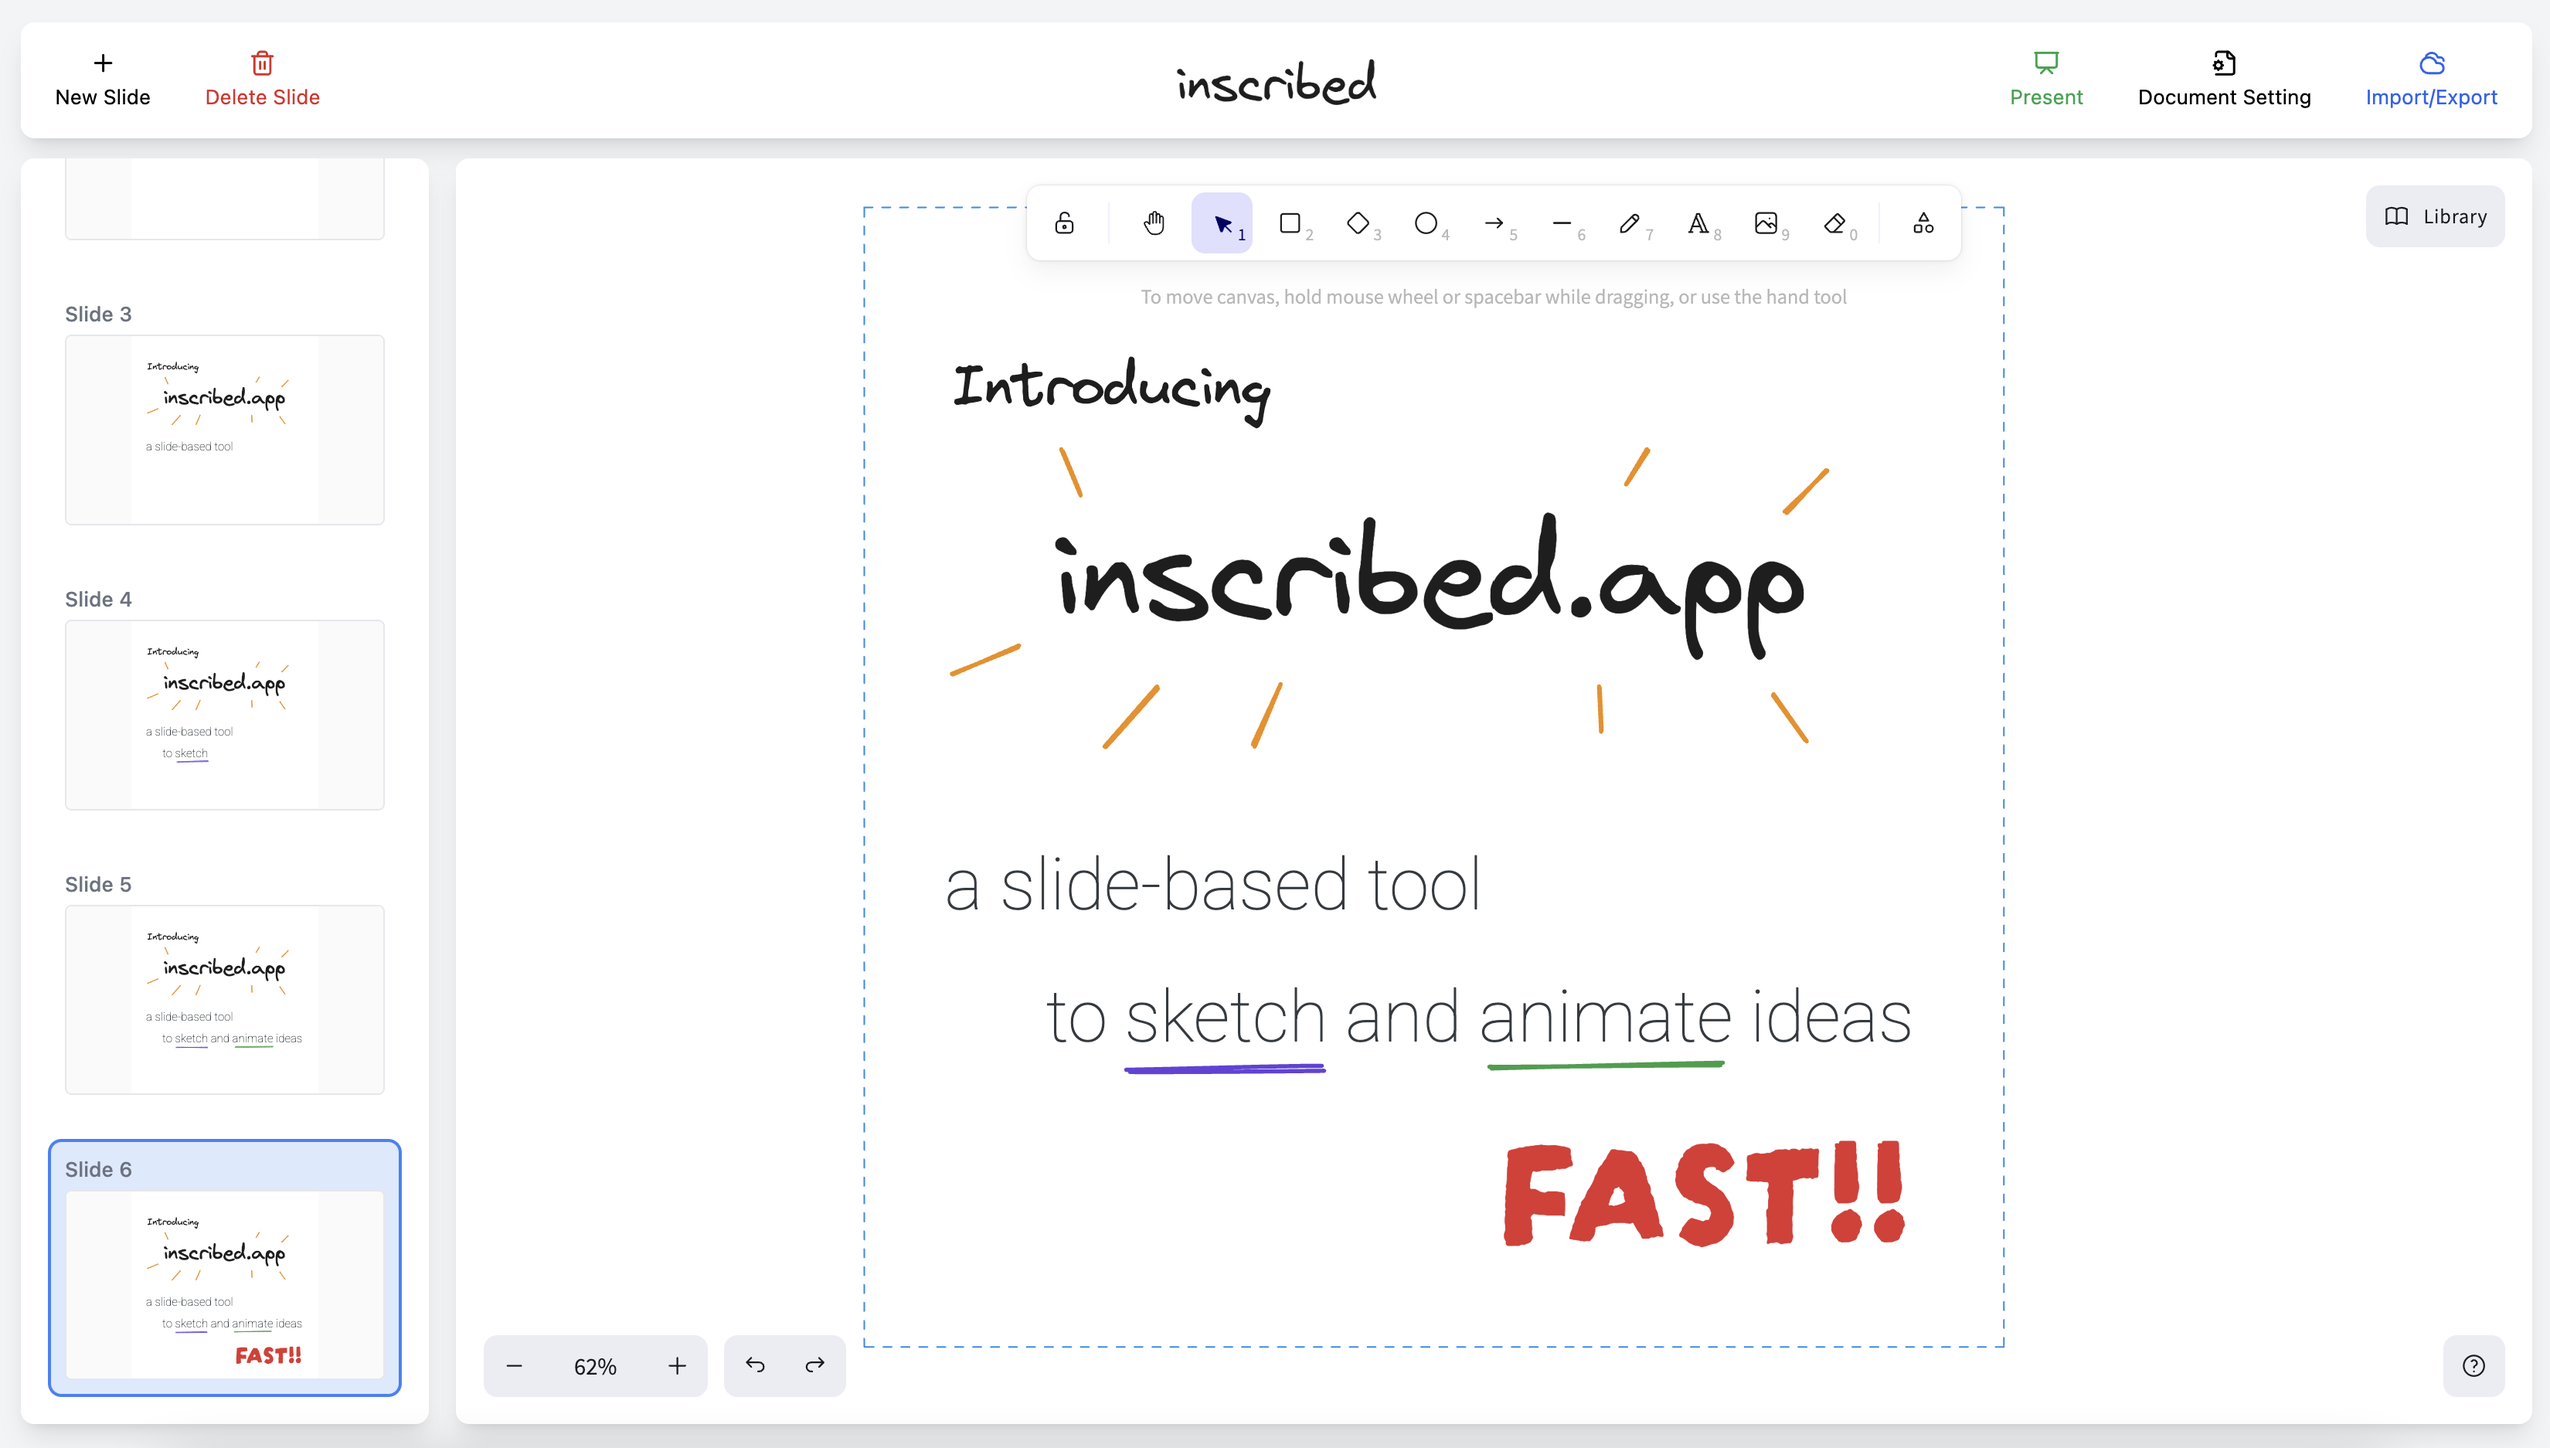
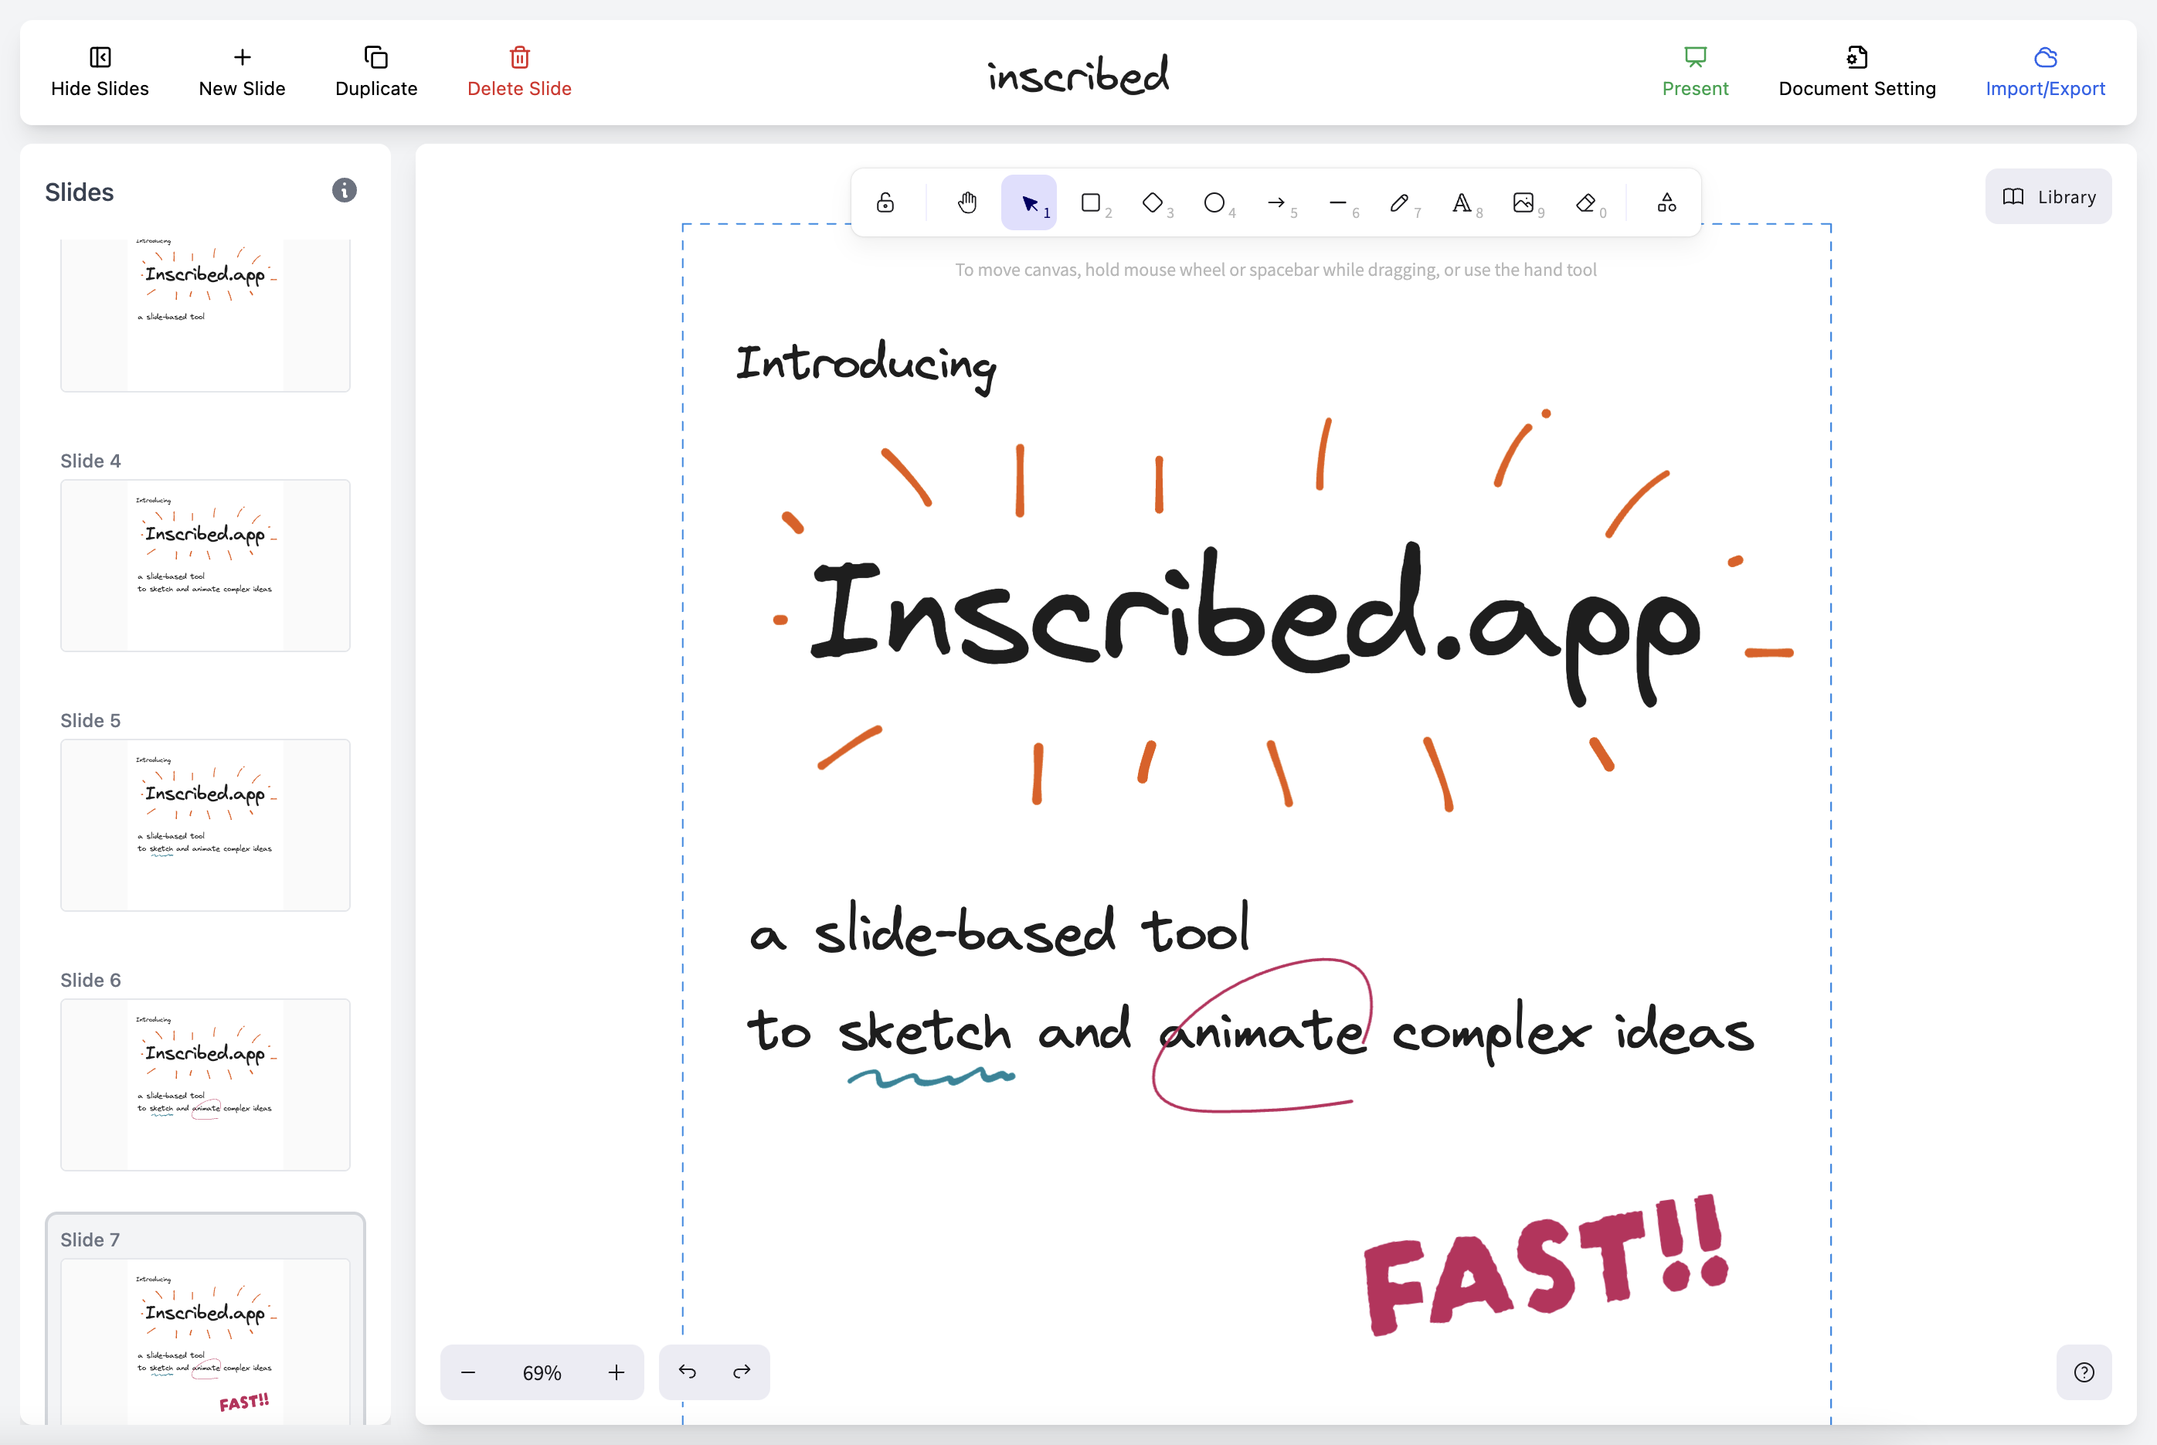
update screenshot

diff --git a/README.md b/README.md
@@ -15,7 +15,7 @@ A slide-based tool for fast sketching and animating ideas.
 
 - 🎨 Interactive drawing canvas powered by Excalidraw
 - ⌨ Keyboard shortcuts support
-  - Copy/Paste functionality
+  - Copy/Paste/Duplicate functionality
   - Navigation with Up/Down arrows
   - Delete items
 - 📏 Customizable document size
